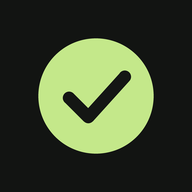
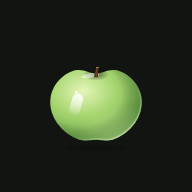
Иконка приложения: яблоко вместо галочки
Claude-Session: https://claude.ai/code/session_01R3FD5SzE6K6yF97YeT7BmB

Changed region(s): [[0.1875, 0.1875, 0.8125, 0.8125]]

diff --git a/sw.js b/sw.js
@@ -1,5 +1,5 @@
 /* Service worker: офлайн-режим для приложения «Меню и покупки» */
-const CACHE = 'menu-planner-v4';
+const CACHE = 'menu-planner-v5';
 const APPLES = Array.from({length:12}, (_, i) => `./apples/a${i + 1}.svg`);   // картинки-яблоки вместо эмодзи
 const ASSETS = ['./', './index.html', './manifest.json', './icon-192.png', './icon-512.png', './fonts/montserrat-var.woff', ...APPLES];
 
